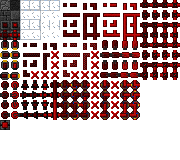
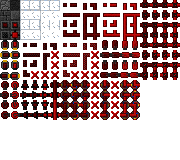
Add files via upload

Changed region(s): [[0.0, 0.1875, 0.1111, 0.25], [0.0, 0.75, 0.0556, 0.8125]]

diff --git a/image_factory.py b/image_factory.py
@@ -49,9 +49,6 @@ def get_memory_image(data):
 def get_sensor_image(data):
     return(get_image(data["activated"], data["rotate"] + 4))
 
-def get_button_block_image(data):
-    return(get_image(data["activated"], 3))
-
 def get_block_image(sftype, neighbours, data):
     if sftype == "wire":
         return(get_wire_image(data, neighbours))
@@ -80,9 +77,9 @@ def get_block_image(sftype, neighbours, data):
     elif sftype == "sensor":
         return(get_sensor_image(data))
     elif sftype == "energy block":
-        return(get_image(0, 12))
+        return(get_image(1, 3))
     elif sftype == "button":
-        return(get_button_block_image(data))
+        return(get_image(0, 3))
     elif sftype == "air":
         img = pygame.Surface((40, 40))
         img.set_colorkey((0, 0, 0))

diff --git a/block.py b/block.py
@@ -68,9 +68,9 @@ class Block():
         elif self.type == "sensor":#сенсор
             self.image = get_sensor_image(self.data)
         elif self.type == "energy block":#блок сигнала
-            self.image = get_image(0, 12)
+            self.image = get_image(1, 3)
         elif self.type == "button":
-            self.image = get_button_block_image(self.data)
+            self.image = get_image(0, 3)
         if self.glassed:
             see = [0, 0, 0, 0]
             see2 = [0, 0, 0, 0]
